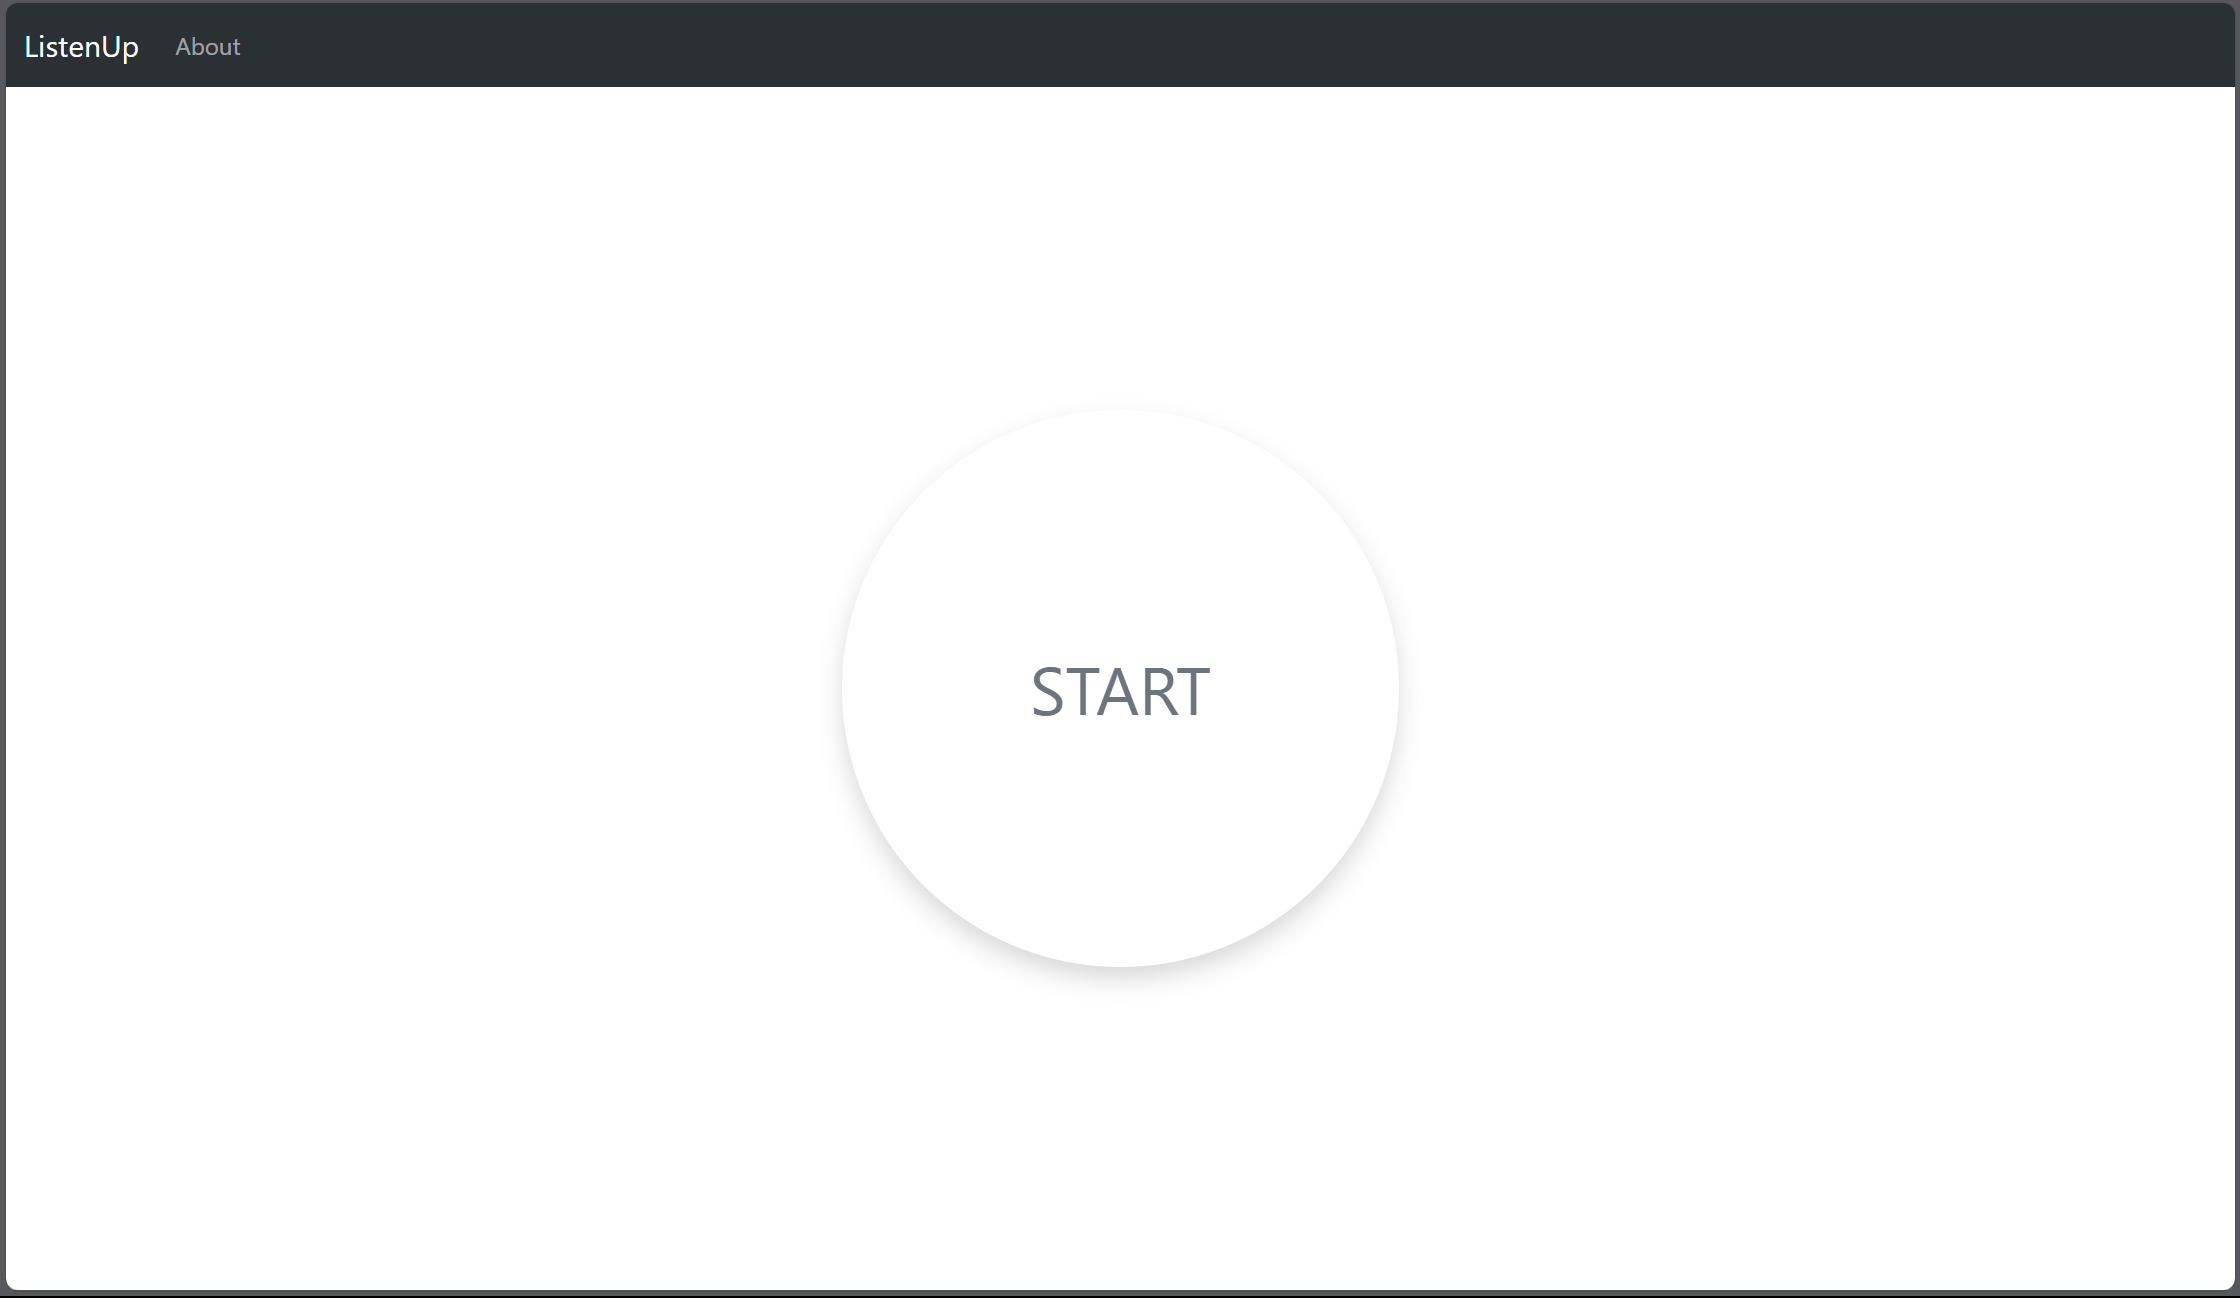
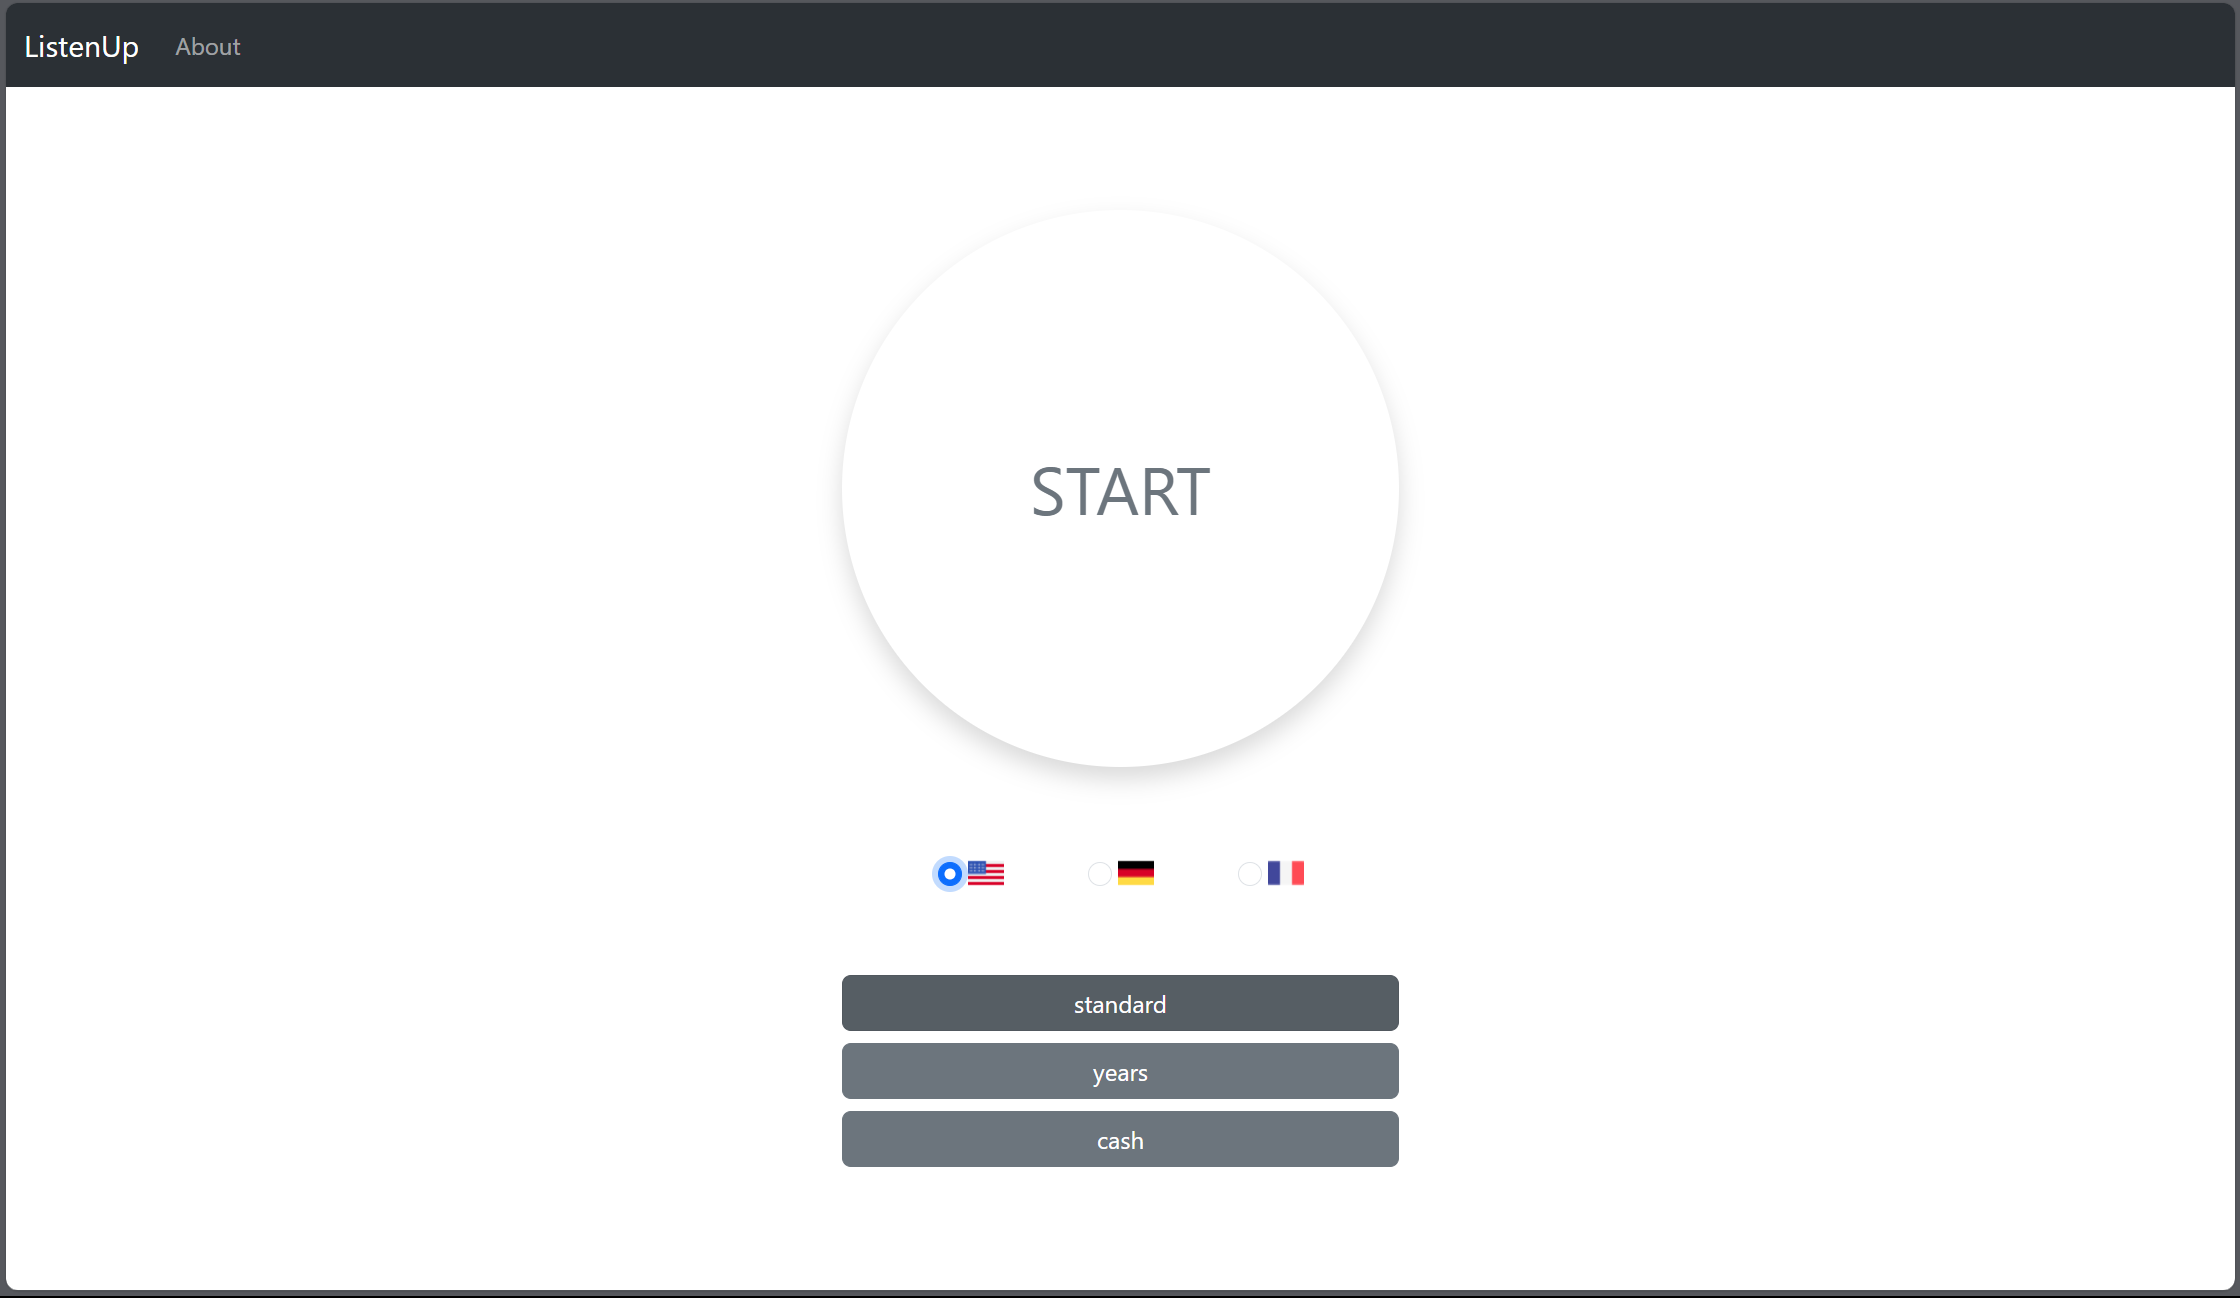
added new start page image

diff --git a/play.php b/play.php
@@ -68,41 +68,15 @@
                         </label>
                     </div>
                 </div>
-                <!-- <input type="checkbox" class="btn-check" name="mode" id="btn-check-4" autocomplete="off">
-                <label class="btn btn-primary" for="btn-check" data-bs-toggle="tooltip" title="Hooray!">Single toggle</label> -->
-              
-                
-
-                
-
-                
-
-                <!-- <div class="container text-center">
-                    <div class="row">
-                        <div class="col btn-dark m-1">
-                            <input type="radio" class="btn-check" name="mode" value="fr-FR" id="option5" autocomplete="off" checked>
-                            <label class="btn btn-secondary" for="option5">standart</label>
-                        </div>
-                        <div class="col btn-dark m-1">
-                            <input type="radio" class="btn-check" name="mode" value="batata" id="option6" autocomplete="off">
-                            <label class="btn btn-secondary" for="option6">years</label>
-                        </div>
-                        <div class="col btn-dark m-1">
-                            <input type="radio" class="btn-check" name="mode" value="batata" id="option7" autocomplete="off">
-                            <label class="btn btn-secondary" for="option7">changes</label>
-                        </div>
-                    </div>
-                </div> -->
-
                 <div class="d-grid gap-2">
                     <input type="radio" class="btn-check" name="mode" value="standard" id="option5" autocomplete="off" checked>
-                    <label class="btn btn-secondary" for="option5" data-bs-toggle="tooltip" title="Hooray!">standard</label>
+                    <label class="btn btn-secondary" for="option5" data-bs-toggle="tooltip" title="numbers from 0 to 100">standard</label>
 
                     <input type="radio" class="btn-check" name="mode" value="years" id="option7" autocomplete="off">
-                    <label class="btn btn-secondary" for="option7">years</label>
+                    <label class="btn btn-secondary" for="option7" data-bs-toggle="tooltip" title="numbers from 1500 to 2050">years</label>
 
                     <input type="radio" class="btn-check" name="mode" value="cash" id="option6" autocomplete="off">
-                    <label class="btn btn-secondary" for="option6">cash</label>
+                    <label class="btn btn-secondary" for="option6" data-bs-toggle="tooltip" title="decimal numbers cash like" >cash</label>
                 </div>
 
             </form>
